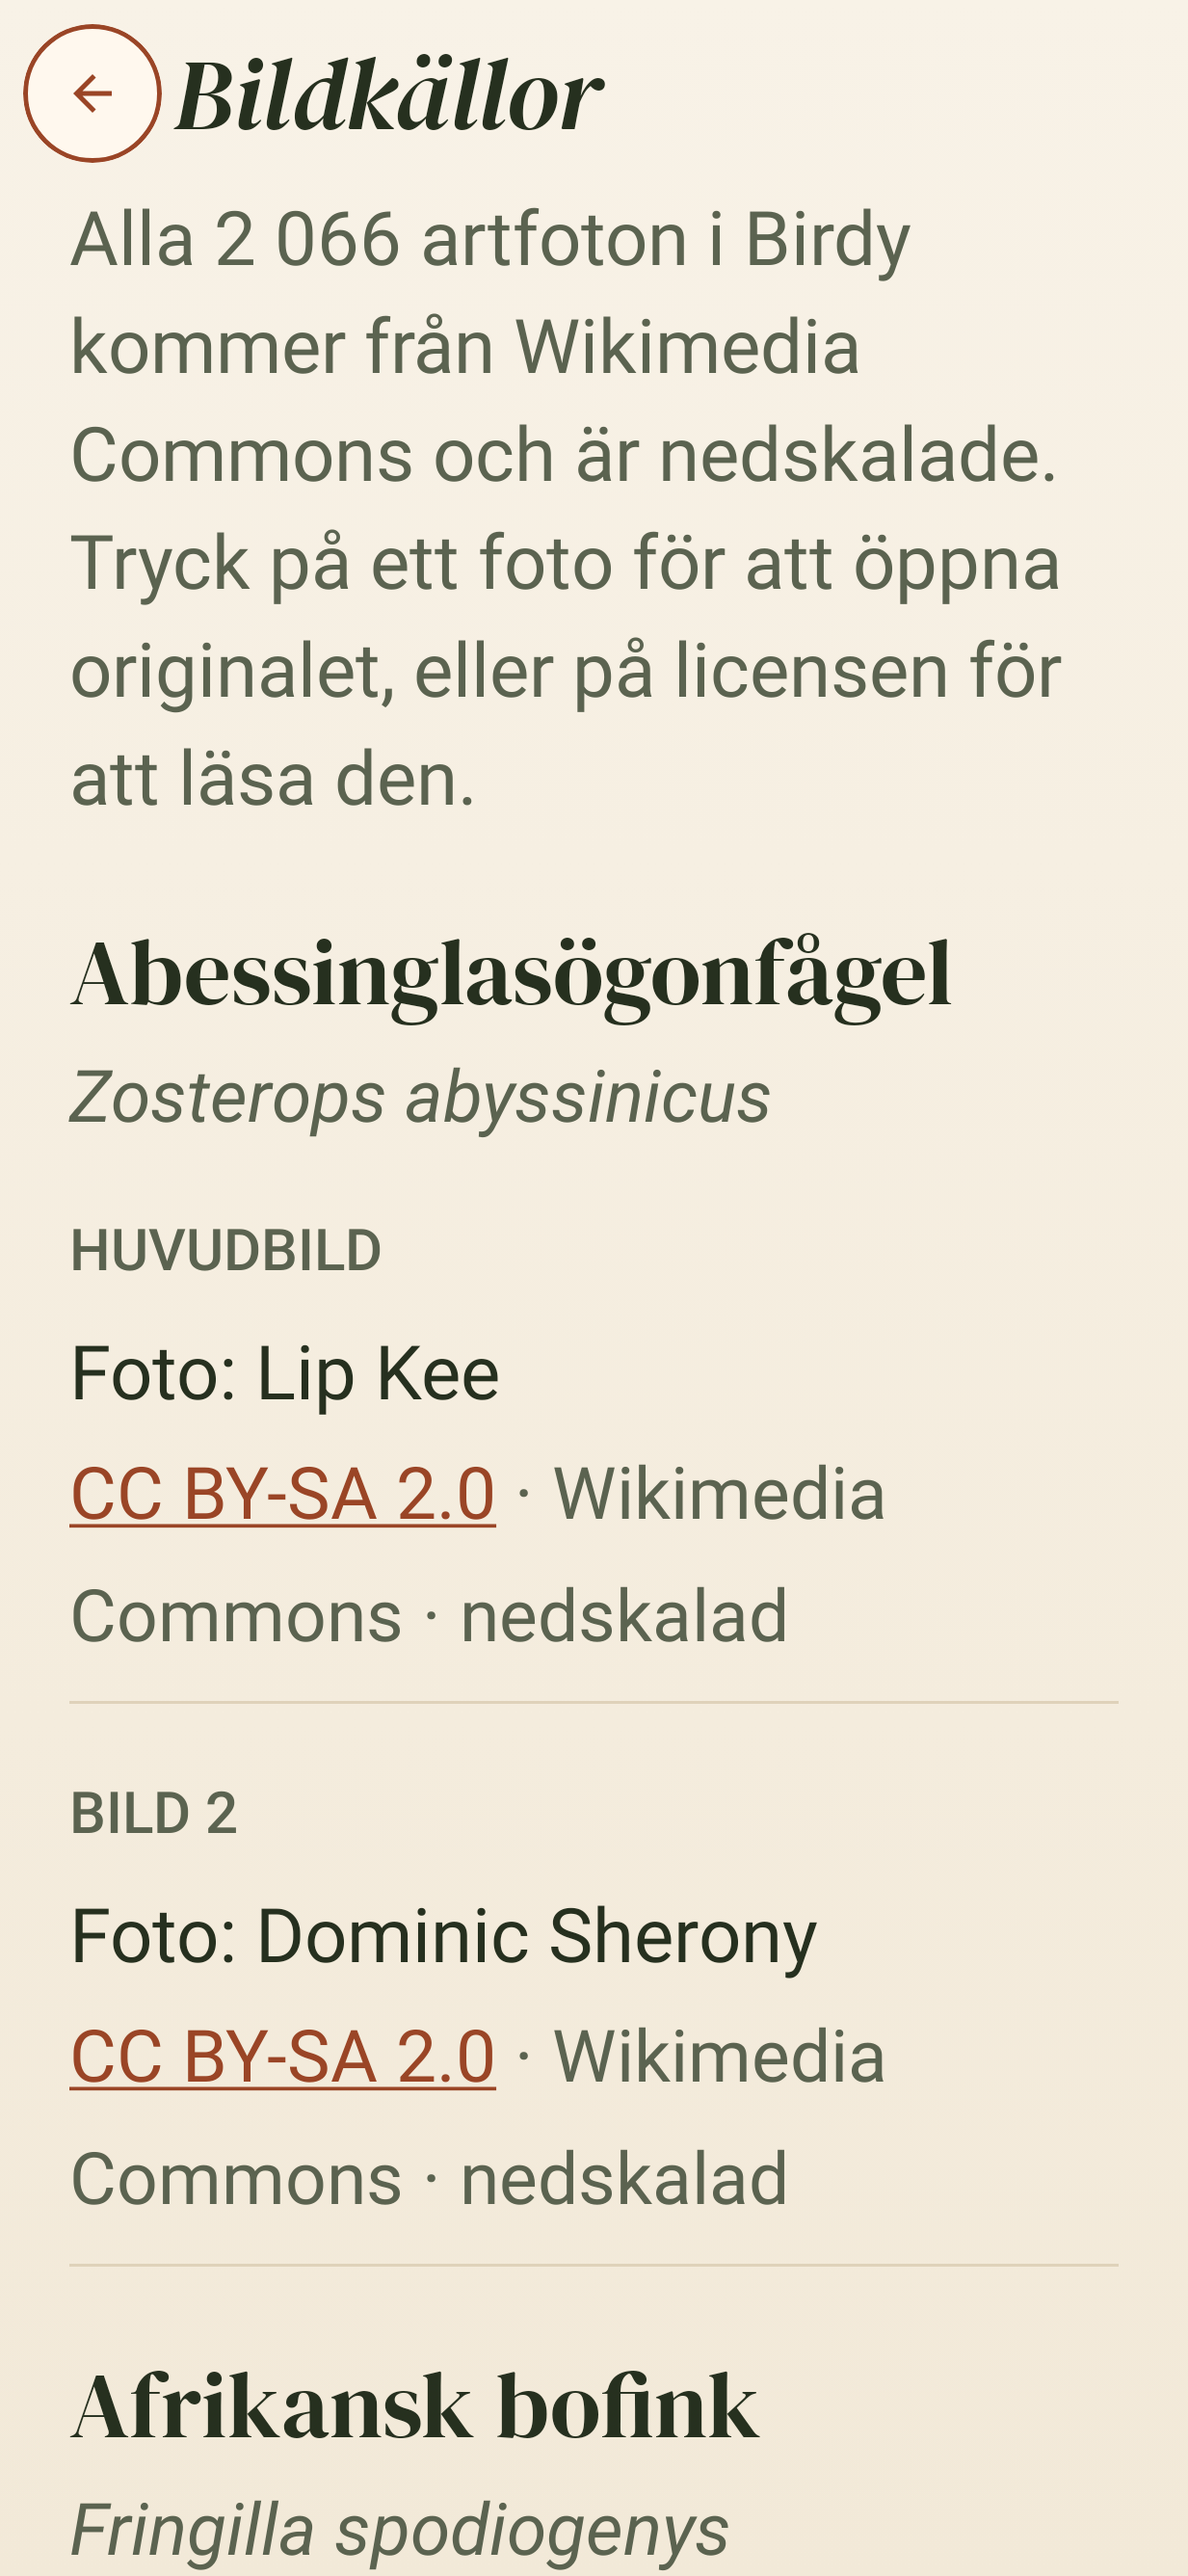
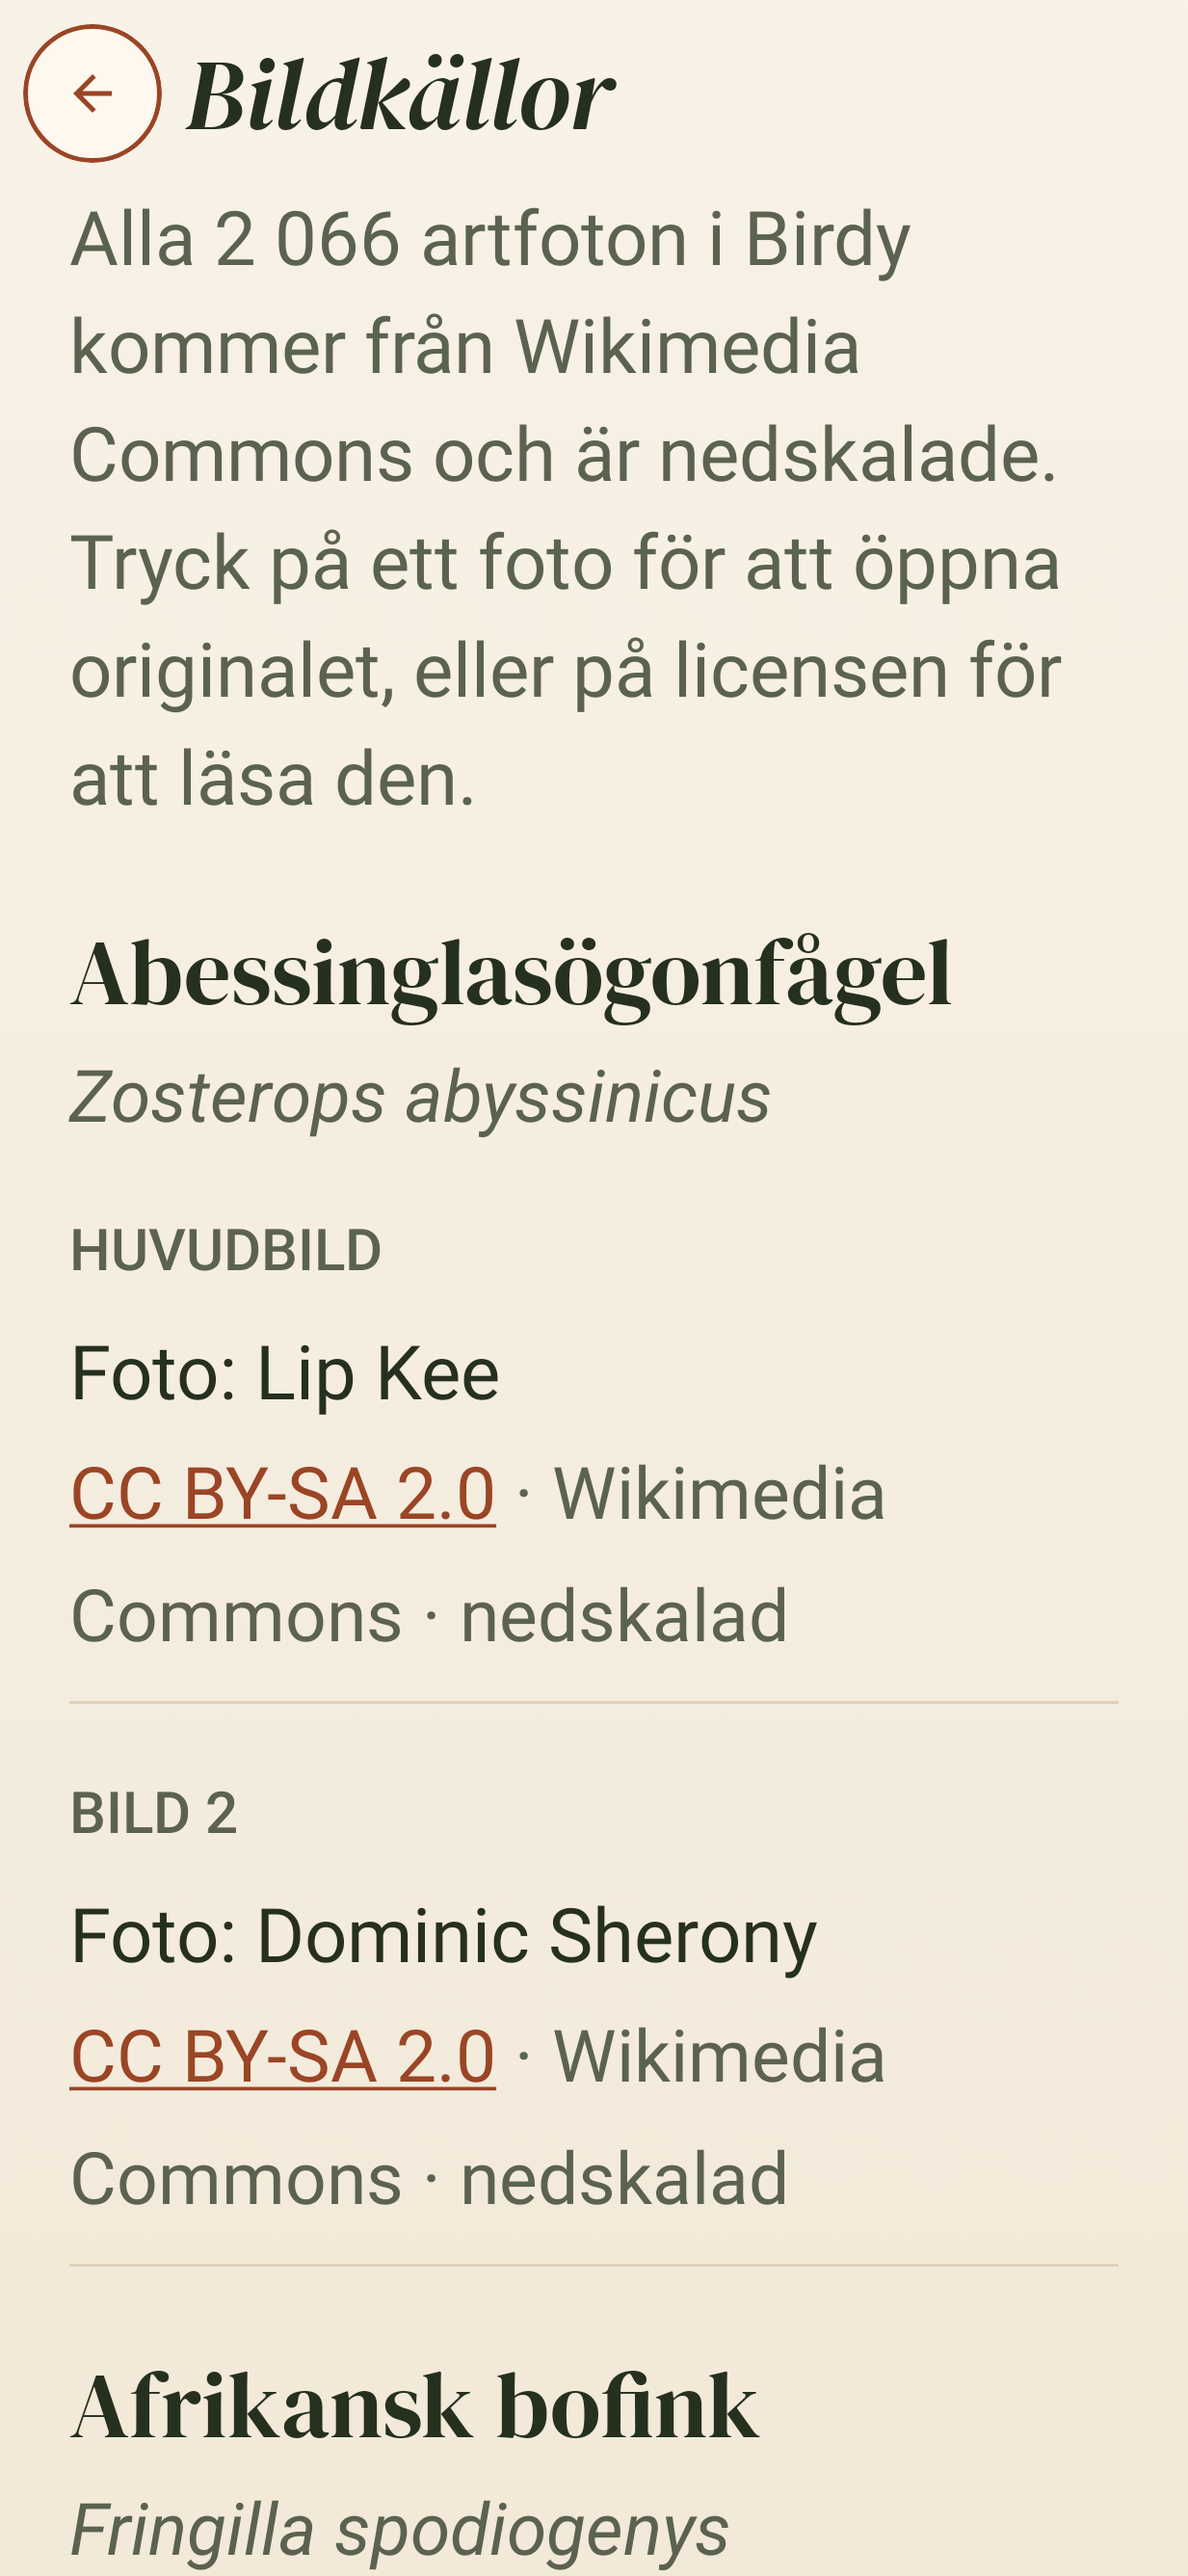
fix(about): the shared BackTopBar, photo credits sorted off the main thread, link test (7i-fix C, 7e-2 quality review)
- About, Bildkällor, the licence list and a licence text use Task 7b's BackTopBar (from
  release/1.3.0, merged in); the pages' titles sit in its row as on Settings. about_back
  is gone, BackTopBar's own label is common_back.
- Bildkällor groups and sorts its 2 066 photos on Dispatchers.Default, each species name's
  sort key computed once.
- A test clicks the licence link in a row's line (performFirstLinkClick); the coordinate
  tap test stays. Stale AboutCreditsTest references and the screenshot helper's comment
  are corrected. Screenshots re-recorded.

Changed region(s): [[0.1541, 0.0, 0.5239, 0.0621]]

diff --git a/composeApp/src/commonMain/kotlin/se/birdy/app/ui/settings/credits/PhotoCreditsScreen.kt b/composeApp/src/commonMain/kotlin/se/birdy/app/ui/settings/credits/PhotoCreditsScreen.kt
@@ -32,7 +32,6 @@ import androidx.compose.ui.text.withLink
 import androidx.compose.ui.unit.dp
 import androidx.compose.ui.unit.sp
 import birdy_bird_scanner.composeapp.generated.resources.Res
-import birdy_bird_scanner.composeapp.generated.resources.about_back
 import birdy_bird_scanner.composeapp.generated.resources.photo_credits_by
 import birdy_bird_scanner.composeapp.generated.resources.photo_credits_error
 import birdy_bird_scanner.composeapp.generated.resources.photo_credits_hero
@@ -46,8 +45,11 @@ import birdy_bird_scanner.composeapp.generated.resources.photo_credits_row_descr
 import birdy_bird_scanner.composeapp.generated.resources.photo_credits_title
 import birdy_bird_scanner.composeapp.generated.resources.photo_credits_use_model_test
 import birdy_bird_scanner.composeapp.generated.resources.photo_credits_use_premium
+import kotlinx.coroutines.Dispatchers
+import kotlinx.coroutines.withContext
 import org.jetbrains.compose.resources.StringResource
 import org.jetbrains.compose.resources.stringResource
+import se.birdy.app.ui.components.BackTopBar
 import se.birdy.app.ui.components.JournalLoading
 import se.birdy.app.ui.components.JournalScaffold
 import se.birdy.app.ui.settings.formatCount
@@ -129,7 +131,10 @@ internal val OTHER_IMAGES =
 // The main photo first, then the others in file order ("secondary-2" before "secondary-10").
 private val PHOTO_ORDER = compareBy<PhotoCredit>({ it.role != HERO_ROLE }, { it.path.length }, { it.path })
 
-/** Groups [credits] per species (A to Ö by name), the main photo first and then in file order. */
+/**
+ * Groups [credits] per species (A to Ö by name), the main photo first and then in file order. Each
+ * name's sort key is computed once. Call it off the main thread: it sorts some 750 species.
+ */
 internal fun groupPhotoCredits(credits: List<PhotoCredit>): PhotoCredits =
     PhotoCredits(
         total = credits.size,
@@ -143,7 +148,9 @@ internal fun groupPhotoCredits(credits: List<PhotoCredit>): PhotoCredits =
                         scientificName = photos.first().scientificName,
                         photos = photos.sortedWith(PHOTO_ORDER),
                     )
-                }.sortedWith(compareBy({ swedishSortKey(it.speciesName) }, { it.speciesId.raw })),
+                }.map { group -> swedishSortKey(group.speciesName) to group }
+                .sortedWith(compareBy({ it.first }, { it.second.speciesId.raw }))
+                .map { it.second },
     )
 
 /** The photo credits read from the species database, off the main thread. */
@@ -153,7 +160,10 @@ fun PhotoCreditsRoute(
     locale: Locale,
     onBack: () -> Unit,
 ) {
-    val credits by rememberLoadable(repository to locale) { groupPhotoCredits(repository.photoCredits(locale)) }
+    val credits by rememberLoadable(repository to locale) {
+        val rows = repository.photoCredits(locale)
+        withContext(Dispatchers.Default) { groupPhotoCredits(rows) }
+    }
     PhotoCreditsScreen(state = credits, locale = locale, onBack = onBack)
 }
 
@@ -173,11 +183,7 @@ internal fun PhotoCreditsScreen(
 ) {
     JournalScaffold(
         topBar = {
-            CreditsTopBar(
-                onBack = onBack,
-                backDescription = stringResource(Res.string.about_back),
-                title = stringResource(Res.string.photo_credits_title),
-            )
+            BackTopBar(onBack = onBack) { CreditsTitle(stringResource(Res.string.photo_credits_title)) }
         },
     ) { padding ->
         Box(modifier = Modifier.fillMaxSize().padding(padding)) {
@@ -319,7 +325,7 @@ private fun PhotoCreditRow(
  * text sizes. The licence is a link of its own when it has a deed; a tap anywhere else on the row
  * opens the photo.
  */
-private fun licenseLine(
+internal fun licenseLine(
     license: String,
     licenseUrl: String?,
     resized: String,

diff --git a/composeApp/src/commonMain/kotlin/se/birdy/app/ui/settings/credits/CreditsCommon.kt b/composeApp/src/commonMain/kotlin/se/birdy/app/ui/settings/credits/CreditsCommon.kt
@@ -1,10 +1,9 @@
 package se.birdy.app.ui.settings.credits
 
 import androidx.compose.foundation.layout.Box
-import androidx.compose.foundation.layout.Row
+import androidx.compose.foundation.layout.RowScope
 import androidx.compose.foundation.layout.Spacer
 import androidx.compose.foundation.layout.fillMaxSize
-import androidx.compose.foundation.layout.fillMaxWidth
 import androidx.compose.foundation.layout.padding
 import androidx.compose.foundation.layout.size
 import androidx.compose.material3.Text
@@ -31,7 +30,6 @@ import androidx.compose.ui.text.withLink
 import androidx.compose.ui.unit.dp
 import androidx.compose.ui.unit.sp
 import kotlinx.coroutines.CancellationException
-import se.birdy.app.ui.components.BackButton
 import se.birdy.app.ui.theme.AccentCopper
 import se.birdy.app.ui.theme.MarginaliaInk
 import se.birdy.app.ui.theme.TextOnCreme
@@ -54,7 +52,7 @@ internal val CreditLinkStyles =
 
 /**
  * [text] with the first occurrence of every [links] phrase made a link. A phrase the text does not
- * contain stays plain text; `AboutCreditsTest` checks that every phrase is in both languages.
+ * contain stays plain text; `AboutScreenTest` checks that every phrase is in both languages.
  */
 internal fun linkify(
     text: String,
@@ -122,30 +120,21 @@ internal fun ProvideUrlOpener(
     CompositionLocalProvider(LocalUriHandler provides handler, content = content)
 }
 
-/** The fixed top bar of a pushed credits page: the back button and, when given, the page title. */
+/**
+ * A credits page's title in the shared [se.birdy.app.ui.components.BackTopBar] (Task 7b), after the
+ * back button, as on Settings: 12dp from the button's paper disc, wrapping when it is long.
+ */
 @Composable
-internal fun CreditsTopBar(
-    onBack: () -> Unit,
-    backDescription: String,
-    title: String? = null,
-) {
-    Row(
-        modifier = Modifier.fillMaxWidth().padding(start = 12.dp, top = 8.dp, end = 16.dp, bottom = 4.dp),
-        verticalAlignment = Alignment.CenterVertically,
-    ) {
-        BackButton(onClick = onBack, contentDescription = backDescription)
-        Spacer(Modifier.size(8.dp))
-        if (title != null) {
-            Text(
-                text = title,
-                fontFamily = rememberDmSerifDisplay(),
-                fontStyle = FontStyle.Italic,
-                fontSize = 22.sp,
-                color = TextOnCreme,
-                modifier = Modifier.weight(1f).semantics { heading() },
-            )
-        }
-    }
+internal fun RowScope.CreditsTitle(title: String) {
+    Spacer(Modifier.size(12.dp))
+    Text(
+        text = title,
+        fontFamily = rememberDmSerifDisplay(),
+        fontStyle = FontStyle.Italic,
+        fontSize = 22.sp,
+        color = TextOnCreme,
+        modifier = Modifier.weight(1f).semantics { heading() },
+    )
 }
 
 /** A credits page's content while it loads, once it has, or when it could not be read. */

diff --git a/composeApp/src/commonMain/kotlin/se/birdy/app/ui/settings/AboutScreen.kt b/composeApp/src/commonMain/kotlin/se/birdy/app/ui/settings/AboutScreen.kt
@@ -34,7 +34,6 @@ import androidx.compose.ui.text.font.FontWeight
 import androidx.compose.ui.unit.dp
 import androidx.compose.ui.unit.sp
 import birdy_bird_scanner.composeapp.generated.resources.Res
-import birdy_bird_scanner.composeapp.generated.resources.about_back
 import birdy_bird_scanner.composeapp.generated.resources.about_credits_label
 import birdy_bird_scanner.composeapp.generated.resources.about_eyebrow
 import birdy_bird_scanner.composeapp.generated.resources.about_headline_accent_1
@@ -62,10 +61,10 @@ import birdy_bird_scanner.composeapp.generated.resources.about_texts_title
 import birdy_bird_scanner.composeapp.generated.resources.about_version_prefix
 import org.jetbrains.compose.resources.StringResource
 import org.jetbrains.compose.resources.stringResource
+import se.birdy.app.ui.components.BackTopBar
 import se.birdy.app.ui.components.JournalIntro
 import se.birdy.app.ui.components.JournalScaffold
 import se.birdy.app.ui.components.MicroLabel
-import se.birdy.app.ui.settings.credits.CreditsTopBar
 import se.birdy.app.ui.settings.credits.Loadable
 import se.birdy.app.ui.settings.credits.ProvideUrlOpener
 import se.birdy.app.ui.settings.credits.TextLink
@@ -90,7 +89,7 @@ internal data class CreditParagraph(
 /**
  * Where the app's content comes from and under which licences (release 1.3.0, legal review 7i-fix C,
  * the proposal in docs/legal/2026-10-1.3.0-genomgang.md §5). The phrases are names, the same in
- * both languages; `AboutCreditsTest` checks that each is in the Swedish and the English text.
+ * both languages; `AboutScreenTest` checks that each is in the Swedish and the English text.
  */
 internal object AboutCredits {
     const val CC_BY_SA_4 = "https://creativecommons.org/licenses/by-sa/4.0/"
@@ -205,7 +204,7 @@ fun AboutScreen(
 ) {
     ProvideUrlOpener(onOpenUrl) {
         JournalScaffold(
-            topBar = { CreditsTopBar(onBack = onBack, backDescription = stringResource(Res.string.about_back)) },
+            topBar = { BackTopBar(onBack = onBack) },
         ) { padding ->
             Column(
                 modifier =

diff --git a/composeApp/src/androidUnitTest/kotlin/se/birdy/app/ui/settings/credits/PhotoCreditsScreenTest.kt b/composeApp/src/androidUnitTest/kotlin/se/birdy/app/ui/settings/credits/PhotoCreditsScreenTest.kt
@@ -1,5 +1,6 @@
 package se.birdy.app.ui.settings.credits
 
+import androidx.compose.material3.Text
 import androidx.compose.ui.geometry.Offset
 import androidx.compose.ui.semantics.SemanticsActions
 import androidx.compose.ui.test.ExperimentalTestApi
@@ -12,6 +13,7 @@ import androidx.compose.ui.test.onNodeWithContentDescription
 import androidx.compose.ui.test.onNodeWithText
 import androidx.compose.ui.test.performClick
 import androidx.compose.ui.test.performCustomAccessibilityActionWithLabel
+import androidx.compose.ui.test.performFirstLinkClick
 import androidx.compose.ui.test.performScrollTo
 import androidx.compose.ui.test.performScrollToKey
 import androidx.compose.ui.test.performTouchInput
@@ -134,6 +136,19 @@ class PhotoCreditsScreenTest {
             val dp = density
             click(Offset(4 * dp, height - 26 * dp))
         }
+        compose.runOnIdle { assertEquals(listOf("https://creativecommons.org/licenses/by/2.0/"), opened) }
+    }
+
+    @Test
+    @Config(qualifiers = "+sv")
+    fun `the licence in the row's line is a link to its deed`() {
+        attachComposeResourcesContext()
+        compose.setContent {
+            BirdyTheme {
+                Text(licenseLine("CC BY 2.0", "https://creativecommons.org/licenses/by/2.0/", "nedskalad") { opened += it })
+            }
+        }
+        compose.onNodeWithText("CC BY 2.0 · Wikimedia Commons · nedskalad").performFirstLinkClick()
         compose.runOnIdle { assertEquals(listOf("https://creativecommons.org/licenses/by/2.0/"), opened) }
     }
 

diff --git a/composeApp/src/commonMain/kotlin/se/birdy/app/ui/settings/credits/OpenSourceLicensesScreen.kt b/composeApp/src/commonMain/kotlin/se/birdy/app/ui/settings/credits/OpenSourceLicensesScreen.kt
@@ -26,7 +26,6 @@ import androidx.compose.ui.text.style.TextOverflow
 import androidx.compose.ui.unit.dp
 import androidx.compose.ui.unit.sp
 import birdy_bird_scanner.composeapp.generated.resources.Res
-import birdy_bird_scanner.composeapp.generated.resources.about_back
 import birdy_bird_scanner.composeapp.generated.resources.licenses_entry_google
 import birdy_bird_scanner.composeapp.generated.resources.licenses_entry_native
 import birdy_bird_scanner.composeapp.generated.resources.licenses_error
@@ -41,6 +40,7 @@ import birdy_bird_scanner.composeapp.generated.resources.licenses_section_tensor
 import birdy_bird_scanner.composeapp.generated.resources.licenses_title
 import org.jetbrains.compose.resources.StringResource
 import org.jetbrains.compose.resources.stringResource
+import se.birdy.app.ui.components.BackTopBar
 import se.birdy.app.ui.components.JournalLoading
 import se.birdy.app.ui.components.JournalScaffold
 import se.birdy.app.ui.components.MicroLabel
@@ -105,11 +105,7 @@ internal fun OpenSourceLicensesScreen(
 ) {
     JournalScaffold(
         topBar = {
-            CreditsTopBar(
-                onBack = onBack,
-                backDescription = stringResource(Res.string.about_back),
-                title = stringResource(Res.string.licenses_title),
-            )
+            BackTopBar(onBack = onBack) { CreditsTitle(stringResource(Res.string.licenses_title)) }
         },
     ) { padding ->
         Box(modifier = Modifier.fillMaxSize().padding(padding)) {

diff --git a/composeApp/src/commonMain/kotlin/se/birdy/app/ui/settings/credits/LicenseTextScreen.kt b/composeApp/src/commonMain/kotlin/se/birdy/app/ui/settings/credits/LicenseTextScreen.kt
@@ -19,11 +19,11 @@ import androidx.compose.ui.semantics.semantics
 import androidx.compose.ui.unit.dp
 import androidx.compose.ui.unit.sp
 import birdy_bird_scanner.composeapp.generated.resources.Res
-import birdy_bird_scanner.composeapp.generated.resources.about_back
 import birdy_bird_scanner.composeapp.generated.resources.license_text_includes
 import birdy_bird_scanner.composeapp.generated.resources.license_text_website
 import birdy_bird_scanner.composeapp.generated.resources.licenses_error
 import org.jetbrains.compose.resources.stringResource
+import se.birdy.app.ui.components.BackTopBar
 import se.birdy.app.ui.components.JournalLoading
 import se.birdy.app.ui.components.JournalScaffold
 import se.birdy.app.ui.settings.openExternalUrl
@@ -55,7 +55,7 @@ internal fun LicenseTextScreen(
 ) {
     ProvideUrlOpener(onOpenUrl) {
         JournalScaffold(
-            topBar = { CreditsTopBar(onBack = onBack, backDescription = stringResource(Res.string.about_back)) },
+            topBar = { BackTopBar(onBack = onBack) },
         ) { padding ->
             Box(modifier = Modifier.fillMaxSize().padding(padding)) {
                 when (state) {

diff --git a/composeApp/src/androidUnitTest/kotlin/se/birdy/app/screenshots/CreditsScreenshotTest.kt b/composeApp/src/androidUnitTest/kotlin/se/birdy/app/screenshots/CreditsScreenshotTest.kt
@@ -152,7 +152,7 @@ class CreditsScreenshotTest {
     }
 }
 
-/** Every photo credit in the species.db the app ships, read with the app's own query. */
+/** Every photo credit in the species.db the app ships, read with the same join as `selectCredits`. */
 private fun shippedCredits(locale: Locale): List<PhotoCredit> {
     val db =
         SQLiteDatabase.openDatabase(
